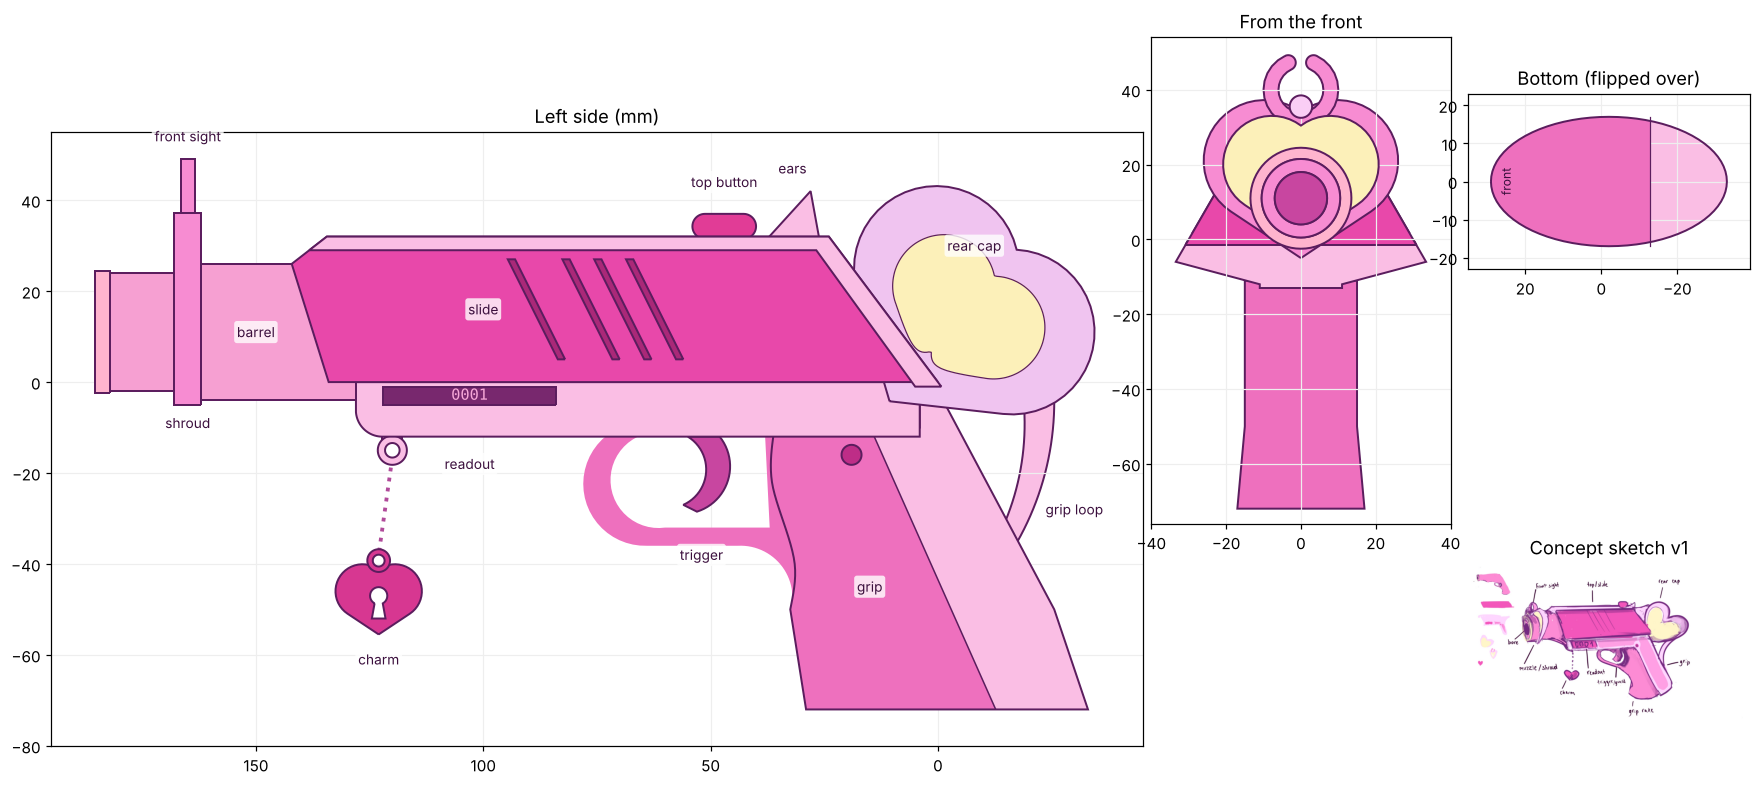
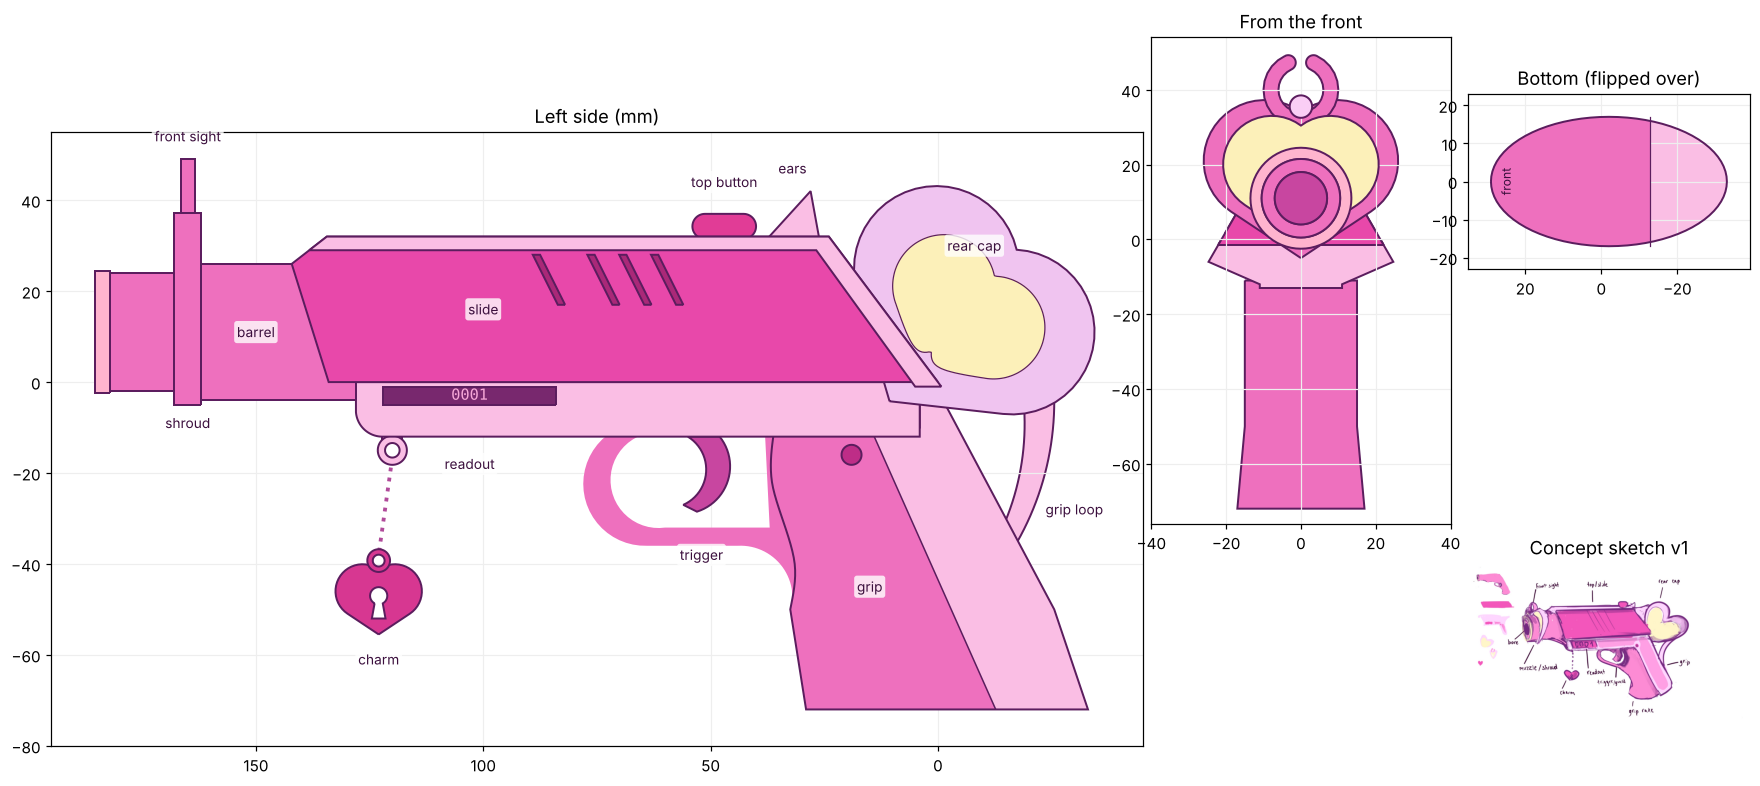
Slimmer wings; barrel and shroud match the grip pink
- Slide sides are straight above WING_TOP_Y and lean out at 30 deg only
  below it: slide bottom 42.5 mm (was 60), frame widest 49 mm (was 67).
  Grooves sit on the straight upper part.
- Barrel, heart flange (shroud) and grip panel share one GRIP_PINK colour.

Claude-Session: https://claude.ai/code/session_01RDHdy5xfTrUfMAq7GtHoaE

Changed region(s): [[0.6562, 0.0611, 0.8125, 0.3664], [0.0625, 0.2137, 0.2188, 0.5191], [0.2812, 0.3053, 0.4062, 0.458]]

diff --git a/Fusion/Scripts/CelestiaGunMouse/CelestiaGunMouse.py b/Fusion/Scripts/CelestiaGunMouse/CelestiaGunMouse.py
@@ -43,10 +43,11 @@ import adsk.fusion
 # Slide: a parallelogram whose front and rear ends lean forward at the top
 SLIDE_LEN = 134.0           # along the bottom edge
 SLIDE_H = 32.0
-# Seen from the front the slide is narrow on top and wide at the bottom, so
-# its dark magenta sides show as angled "wings".
-SLIDE_BOTTOM_W = 60.0       # width where the slide sits on the frame
-SLIDE_SIDE_ANGLE = 30.0     # lean of the sides from vertical (bigger = more angled)
+# Seen from the front the slide's sides go straight down from the top, then
+# lean out below WING_TOP_Y, so the lower part shows as angled "wings".
+SLIDE_TOP_W = 24.0          # width of the straight upper part
+WING_TOP_Y = 16.0           # where the sides start leaning out
+SLIDE_SIDE_ANGLE = 30.0     # lean of the wings from vertical (bigger = more angled)
 SLIDE_FRONT_LEAN = 10.0     # top of the front face sits this far forward
 SLIDE_FRONT_BEVEL = 6.0     # bevel on the top-front corner
 SLIDE_REAR_LEAN = 24.0      # top of the rear face sits this far forward
@@ -180,15 +181,16 @@ LIVE_PARAMS = [
 
 # Colours from the sketch (R, G, B), by body name
 CREAM = (252, 240, 185)
+GRIP_PINK = (238, 112, 190)   # the grip panel; barrel and shroud match it
 BODY_COLORS = {
     'Slide': (232, 72, 170),
-    'Barrel': (246, 160, 210),
+    'Barrel': GRIP_PINK,
     'Muzzle lip': (255, 180, 206),
     'Sight bead': (250, 206, 245),
-    'Heart flange': (247, 140, 210),
+    'Heart flange': GRIP_PINK,
     'Flange inset': CREAM,
     'Frame & Grip': (250, 190, 228),
-    'Grip panel': (238, 112, 190),
+    'Grip panel': GRIP_PINK,
     'Grip pin': (190, 45, 135),
     'Trigger': (200, 70, 160),
     'Top button': (225, 60, 150),
@@ -343,9 +345,11 @@ def ears_outline():
 
 
 def serration_outlines():
-    y0, y1 = 5.0, SLIDE_H - 5.0
+    """Slanted grooves on the straight upper part of the slide's sides."""
+    y0, y1 = WING_TOP_Y + 1.0, SLIDE_H - TOP_STRIP_H - 1.0
+    lean = SERRATION_LEAN * (y1 - y0) / (SLIDE_H - 10.0)
     return [polygon([(x, y0), (x + SERRATION_W, y0),
-                     (x + SERRATION_W + SERRATION_LEAN, y1), (x + SERRATION_LEAN, y1)])
+                     (x + SERRATION_W + lean, y1), (x + lean, y1)])
             for x in SERRATION_XS]
 
 
@@ -362,18 +366,21 @@ def button_outline():
 
 
 def slide_half_width(y):
-    """Half the slide's width at height y (sides lean in toward the top)."""
-    return SLIDE_BOTTOM_W / 2.0 - y * math.tan(math.radians(SLIDE_SIDE_ANGLE))
+    """Half the slide's width at height y: straight above WING_TOP_Y,
+    leaning out below it."""
+    return SLIDE_TOP_W / 2.0 + max(WING_TOP_Y - y, 0.0) * math.tan(math.radians(SLIDE_SIDE_ANGLE))
 
 
-SLIDE_TOP_W = 2.0 * slide_half_width(SLIDE_H)
+SLIDE_BOTTOM_W = 2.0 * slide_half_width(0.0)
 
 
 def slide_section():
-    """Front-view (u, v) trapezoid the slide and top strip are trimmed to."""
+    """Front-view (u, v) shape the slide and top strip are trimmed to."""
     lo, hi = -1.5, SLIDE_H + 1.0
+    w = WING_TOP_Y
     return polygon([(-slide_half_width(lo), lo), (slide_half_width(lo), lo),
-                    (slide_half_width(hi), hi), (-slide_half_width(hi), hi)])
+                    (slide_half_width(w), w), (slide_half_width(hi), hi),
+                    (-slide_half_width(hi), hi), (-slide_half_width(w), w)])
 
 
 def frame_band_half_width(y):
@@ -915,7 +922,7 @@ def build_slide(root):
 
     # Slanted grooves, sketched right on each leaning side face
     for side, label in ((1, 'left'), (-1, 'right')):
-        face = side_face(slide, side, 0.0, SLIDE_H)
+        face = side_face(slide, side, WING_TOP_Y, SLIDE_H)
         if face is None:
             _skipped.append('Slide: {} grooves skipped (side face not found)'.format(label))
             continue
